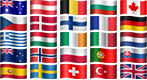
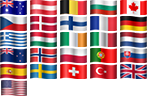
usa added

diff --git a/src/components/dataBrands/Header.jsx b/src/components/dataBrands/Header.jsx
@@ -282,7 +282,7 @@ function ChildComponent() {
                 >
                   <MenuItem onClick={handleClose}>
                     <Link
-                     target="_blank"
+                      target="_blank"
                       to={`https://topbon.us/personal/${newUrl}`}
                       className="balanceWithdraw"
                     >
@@ -293,7 +293,7 @@ function ChildComponent() {
                   <Divider />
                   <MenuItem onClick={handleClose}>
                     <Link
-                     target="_blank"
+                      target="_blank"
                       to={`https://topbon.us/personal/${newUrl}`}
                       className="balanceWithdraw"
                     >
@@ -303,7 +303,7 @@ function ChildComponent() {
                   </MenuItem>
                   <MenuItem onClick={handleClose}>
                     <Link
-                     target="_blank"
+                      target="_blank"
                       to={`https://topbon.us/fortune/${newUrl}`}
                       className="balanceWithdraw"
                     >
@@ -312,7 +312,7 @@ function ChildComponent() {
                     </Link>
                   </MenuItem>
                   <MenuItem onClick={handleClose}>
-                    <Link  target="_blank" className="balanceWithdraw" to={`https://topbon.us/shop/${newUrl}`}>
+                    <Link target="_blank" className="balanceWithdraw" to={`https://topbon.us/shop/${newUrl}`}>
                       <img className="mr-1" src={`.${shop}`} alt={shop} />
                       {t("Cards shop")}
                     </Link>
@@ -328,7 +328,7 @@ function ChildComponent() {
               {Object.keys(user).length > 0 && (
                 <div className="flex items-center">
                   <Link
-                   target="_blank"
+                    target="_blank"
                     to={`https://topbon.us/personal/${newUrl}`}
                     className="wallet flex items-center"
                   >
@@ -349,7 +349,7 @@ function ChildComponent() {
                 <div className="list-menu">
                   {Object.keys(user).length > 0 && ( // Проверяем, есть ли данные в user
                     <Link
-                     target="_blank"
+                      target="_blank"
                       to={`https://topbon.us/personal/${newUrl}`}
                       className="balanceWithdraw"
                     >
@@ -360,7 +360,7 @@ function ChildComponent() {
                   <div className="mobile-menu-content">
                     {Object.keys(user).length > 0 && (
                       <Link
-                       target="_blank"
+                        target="_blank"
                         to={`https://topbon.us/fortune/${newUrl}`}
                         className="balanceWithdraw"
                       >
@@ -373,7 +373,7 @@ function ChildComponent() {
                   </div>
                   {Object.keys(user).length > 0 && (
                     <div>
-                      <Link  target="_blank" className="balanceWithdraw" to={`https://topbon.us/shop/${newUrl}`}>
+                      <Link target="_blank" className="balanceWithdraw" to={`https://topbon.us/shop/${newUrl}`}>
                         <img className="mr-1" src={`.${shop}`} alt={shop} />
                         {t("Cards shop")}
                       </Link>

diff --git a/src/components/dataBrands/Data.jsx b/src/components/dataBrands/Data.jsx
@@ -48,6 +48,7 @@ function ChildComponent() {
   const countryOptions1043 = [
     { code: "all", name: "World", flag: "🌍" },
     { code: "ca", name: "Canada", flag: "🇨🇦" },
+    { code: "us", name: "USA", flag: "usa" },
   ];
 
   const countryOptions1044 = [
@@ -64,6 +65,7 @@ function ChildComponent() {
     { code: "pl", name: "Poland", flag: "🇵🇱" },
     { code: "se", name: "Sweden", flag: "🇸🇪" },
     { code: "ch", name: "Switzerland", flag: "🇨🇭" },
+    { code: "us", name: "USA", flag: "usa" },
     { code: "all", name: "World", flag: "🌍" },
   ];
 

diff --git a/src/css/flags.css b/src/css/flags.css
@@ -249,6 +249,16 @@
     background: url("../img/country-list.png") no-repeat !important;
     background-position: -120px -64px !important;
   }
+
+  .us {
+    width: 27px;
+    height: 15px;
+    margin-right: 10px;
+    float: left;
+    content: "";
+    background: url("../img/country-list.png") no-repeat !important;
+    background-position: 0px -80px !important;
+  }
   
   .all {
     width: 24px;
